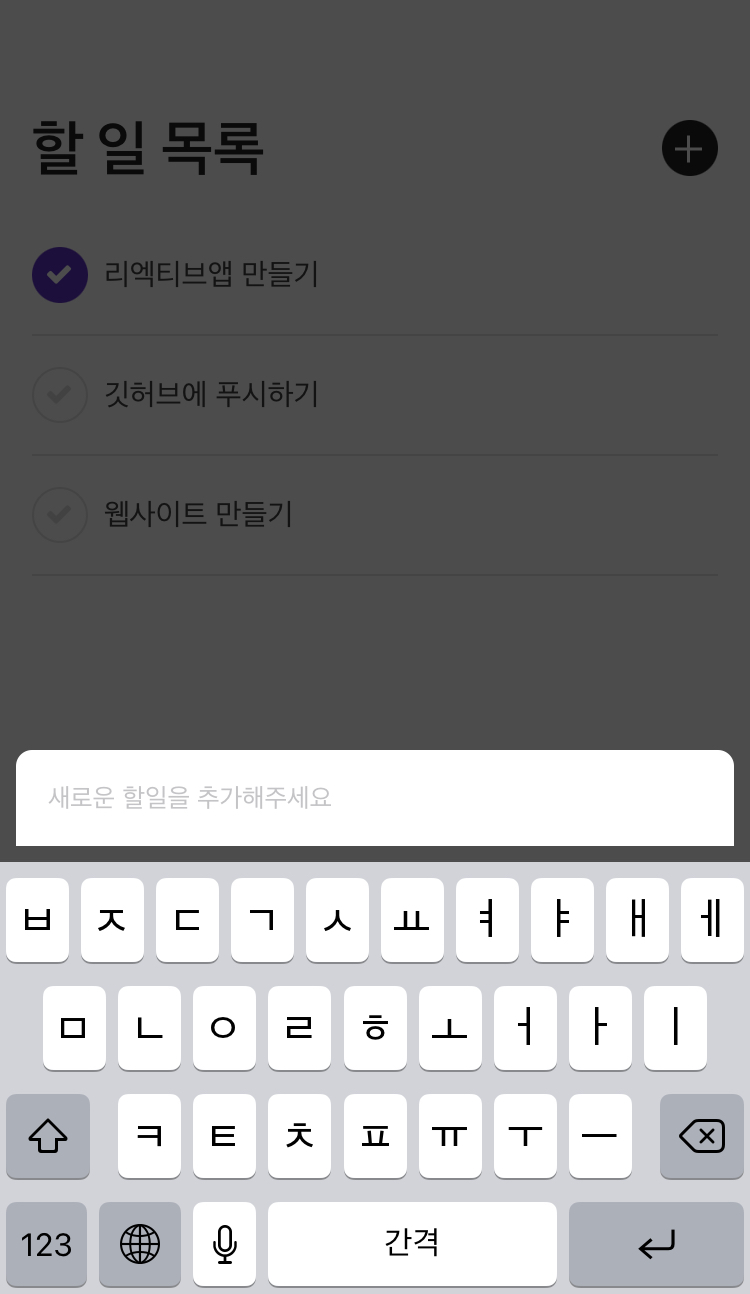
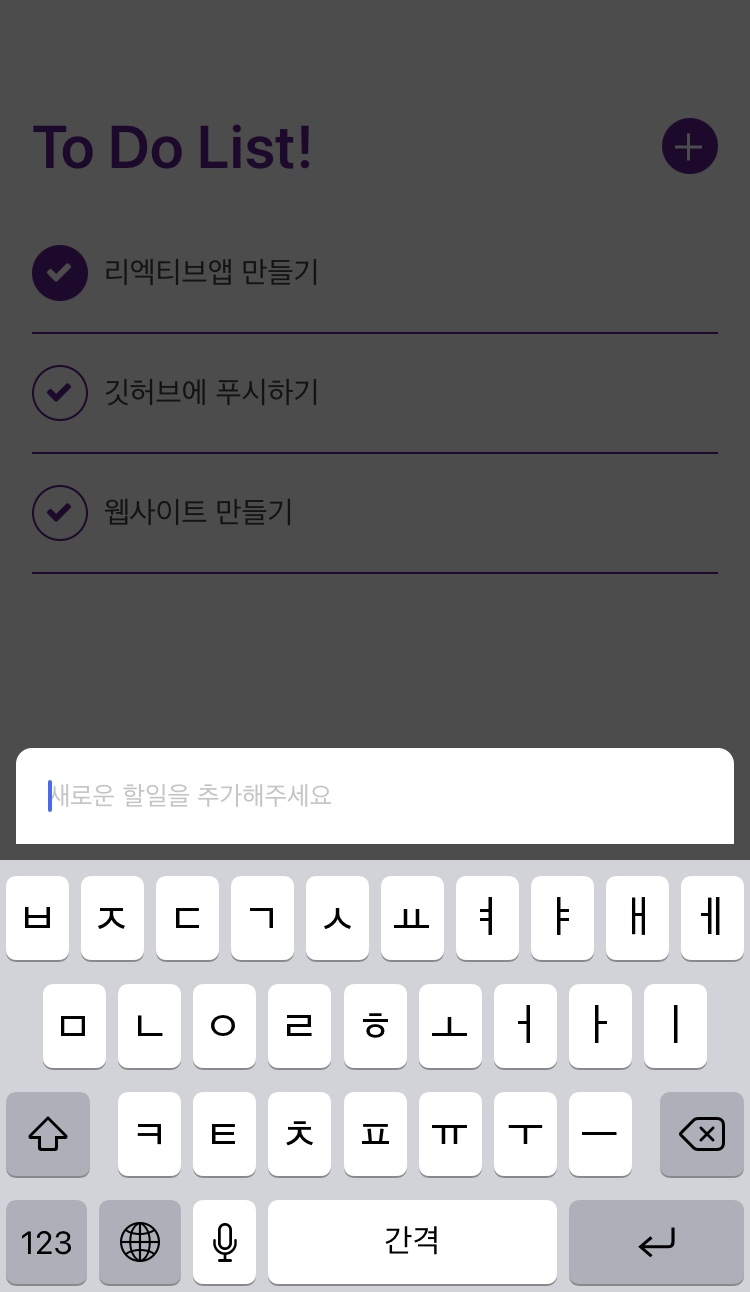
디자인변경

diff --git a/components/TodoItem.js b/components/TodoItem.js
@@ -26,7 +26,7 @@ const TodoItem = ({
                         onPress={toggle}
                         style={done ? styles.done : styles.check}
                     >
-                    <FontAwesome name="check" color={done ? '#FFFFFF' : '#E0E0E0'} size={14} />
+                    <FontAwesome name="check" color={done ? '#FFFFFF' : '#6a1b9a'} size={14} />
                     </TouchableOpacity>
                     <Text style={styles.title}>
                         {title}
@@ -48,7 +48,7 @@ const styles = StyleSheet.create({
         alignItems: 'center',
         height: 60,
         borderBottomWidth: 1,
-        borderBottomColor: '#E5E5E5',
+        borderBottomColor: '#6a1b9a',
     },
     title: {
         fontSize: 16,
@@ -56,7 +56,7 @@ const styles = StyleSheet.create({
     },
     check: {
         borderWidth: 1,
-        borderColor: '#E5E5E5',
+        borderColor: '#6a1b9a',
         width: 28,
         height: 28,
         justifyContent: 'center',
@@ -71,7 +71,7 @@ const styles = StyleSheet.create({
         alignItems: 'center',
         marginRight : 8,
         borderRadius: 14,
-        backgroundColor: '#6830CF',
+        backgroundColor: '#6a1b9a',
     }
 })
 

diff --git a/components/Header.js b/components/Header.js
@@ -14,7 +14,7 @@ const Header = ({
     return (
         <View style={styles.container}>
             <Text style={styles.title}>
-                할 일 목록
+                To Do List!
             </Text>
             <TouchableOpacity
                 activeOpacity={0.8}
@@ -38,7 +38,7 @@ const styles = StyleSheet.create({
         marginRight: 16,
     },
     title: {
-        color: '#212121',
+        color: '#6a1b9a',
         fontSize: 32,
         fontWeight: '600',
     },
@@ -46,7 +46,7 @@ const styles = StyleSheet.create({
         width: 28,
         height: 28,
         borderRadius: 14,
-        backgroundColor: '#212121',
+        backgroundColor: '#6a1b9a',
         justifyContent: 'center',
         alignItems: 'center',
         paddingTop: Platform.select({

diff --git a/README.md b/README.md
@@ -1,2 +1,10 @@
+<p align="center">
+  <img width="230" alt="icon" src="https://user-images.githubusercontent.com/63582123/108975985-6bdc4080-76ca-11eb-897c-8a58a70db1b3.png">
+</p>
+
 # WorkTodo
 TodoList App
+
+<img src="https://user-images.githubusercontent.com/63582123/112848834-76cc2b80-90e3-11eb-8a79-1b7f83e3c0b6.jpeg"  width="347" height="599">
+<img src="https://user-images.githubusercontent.com/63582123/112848853-7a5fb280-90e3-11eb-9a41-e3145be0becf.jpeg"  width="347" height="599">
+<img src="https://user-images.githubusercontent.com/63582123/112848866-7c297600-90e3-11eb-8a70-ea492e02b151.jpeg"  width="347" height="599">
